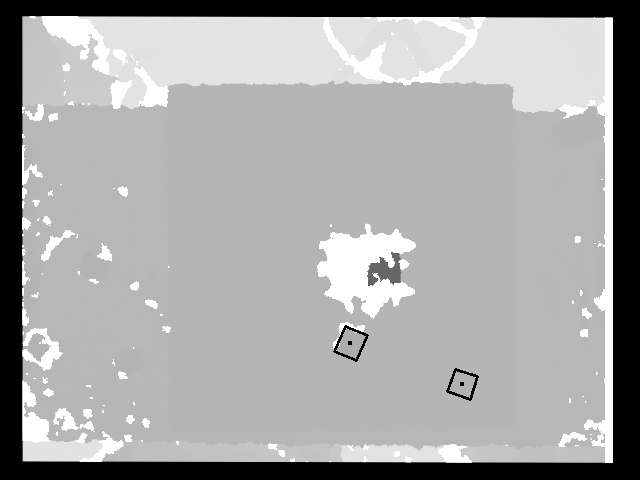
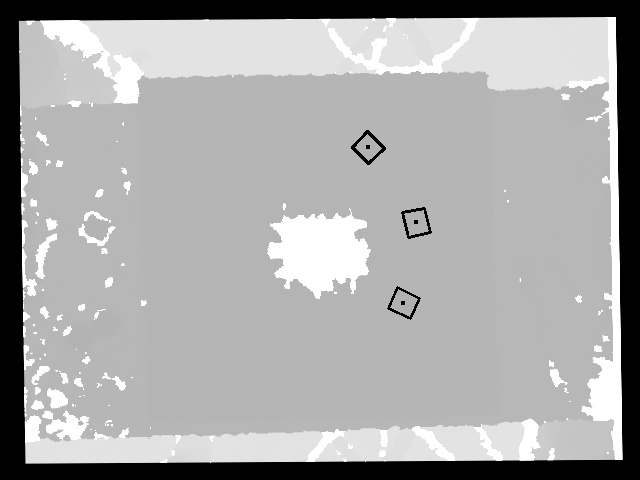
updated world coords

diff --git a/state_machine.py b/state_machine.py
@@ -199,10 +199,10 @@ class StateMachine():
         global camMatrix
 
         # Camera Instrinsic Matrix obtained through chequerboard calibration
-        camMatrix = np.array([[562.04399308,0.00,327.78253347],
-                              [0.00,559.59009967,249.41949401],
+        camMatrix = np.array([[542.27975972,0.00,332.75615151],
+                              [0.00,542.4745867,267.91209383],
                                 [0.00,0.00,1.00]])
-        distCoeffs = np.array([2.86261843e-01,-1.06215288e+00,-6.38736068e-04,-6.91259011e-04,1.42539697e+00])
+        distCoeffs = np.array([0.28686841,-0.86649629,0.01330085,0.00217651,0.98118301])
 
         # Recording the edge coordinates of the board locations in the world frame (in mm)
 
@@ -233,7 +233,7 @@ class StateMachine():
                 count=count+1
 
         # B matrix contains the world coordinate points (measured)
-        b=np.array([-29.5, -30.48, -29.5, 30.48,29.5,30.48, 29.5,-30.48])
+        b=np.array([-30.988, -29.718, -30.988, 30.48,29.972,30.48, 29.972,-29.718])
 
         # Solving for Ax=B (Taking pseudo inverse since A is not square)
         x=(np.linalg.inv(A.T.dot(A))).dot(A.T).dot(b.T)
@@ -441,7 +441,7 @@ class StateMachine():
 
 
     def click_and_grab_task1(self, block_coordinates, drop_coordinates):
-        print("Executing Task 1")
+        print("Executing Task")
         # Waiting for 3 seconds for user to click the block location
         time.sleep(3)
 
@@ -707,7 +707,7 @@ class StateMachine():
         self.next_state = "idle"
 
 
-    def task1(self):
+    def task2(self):
         self.status_message = "Performing task 2"
         self.current_state = "Task 2"
         # Calling the block detection function to detect block contours
@@ -720,7 +720,7 @@ class StateMachine():
         for i in range(len(self.kinect.block_coordinates)-2):
             block_coordinates=np.array([[self.kinect.block_coordinates[i+count]],[self.kinect.block_coordinates[i+count+1]]])
             self.click_and_grab_task1(block_coordinates, drop_coordinates)
-            drop_coordinates=np.array([[350+distance],[350]])
+            drop_coordinates=np.array([[320],[340+distance]])
             distance=distance+50
             count=count+1
 
